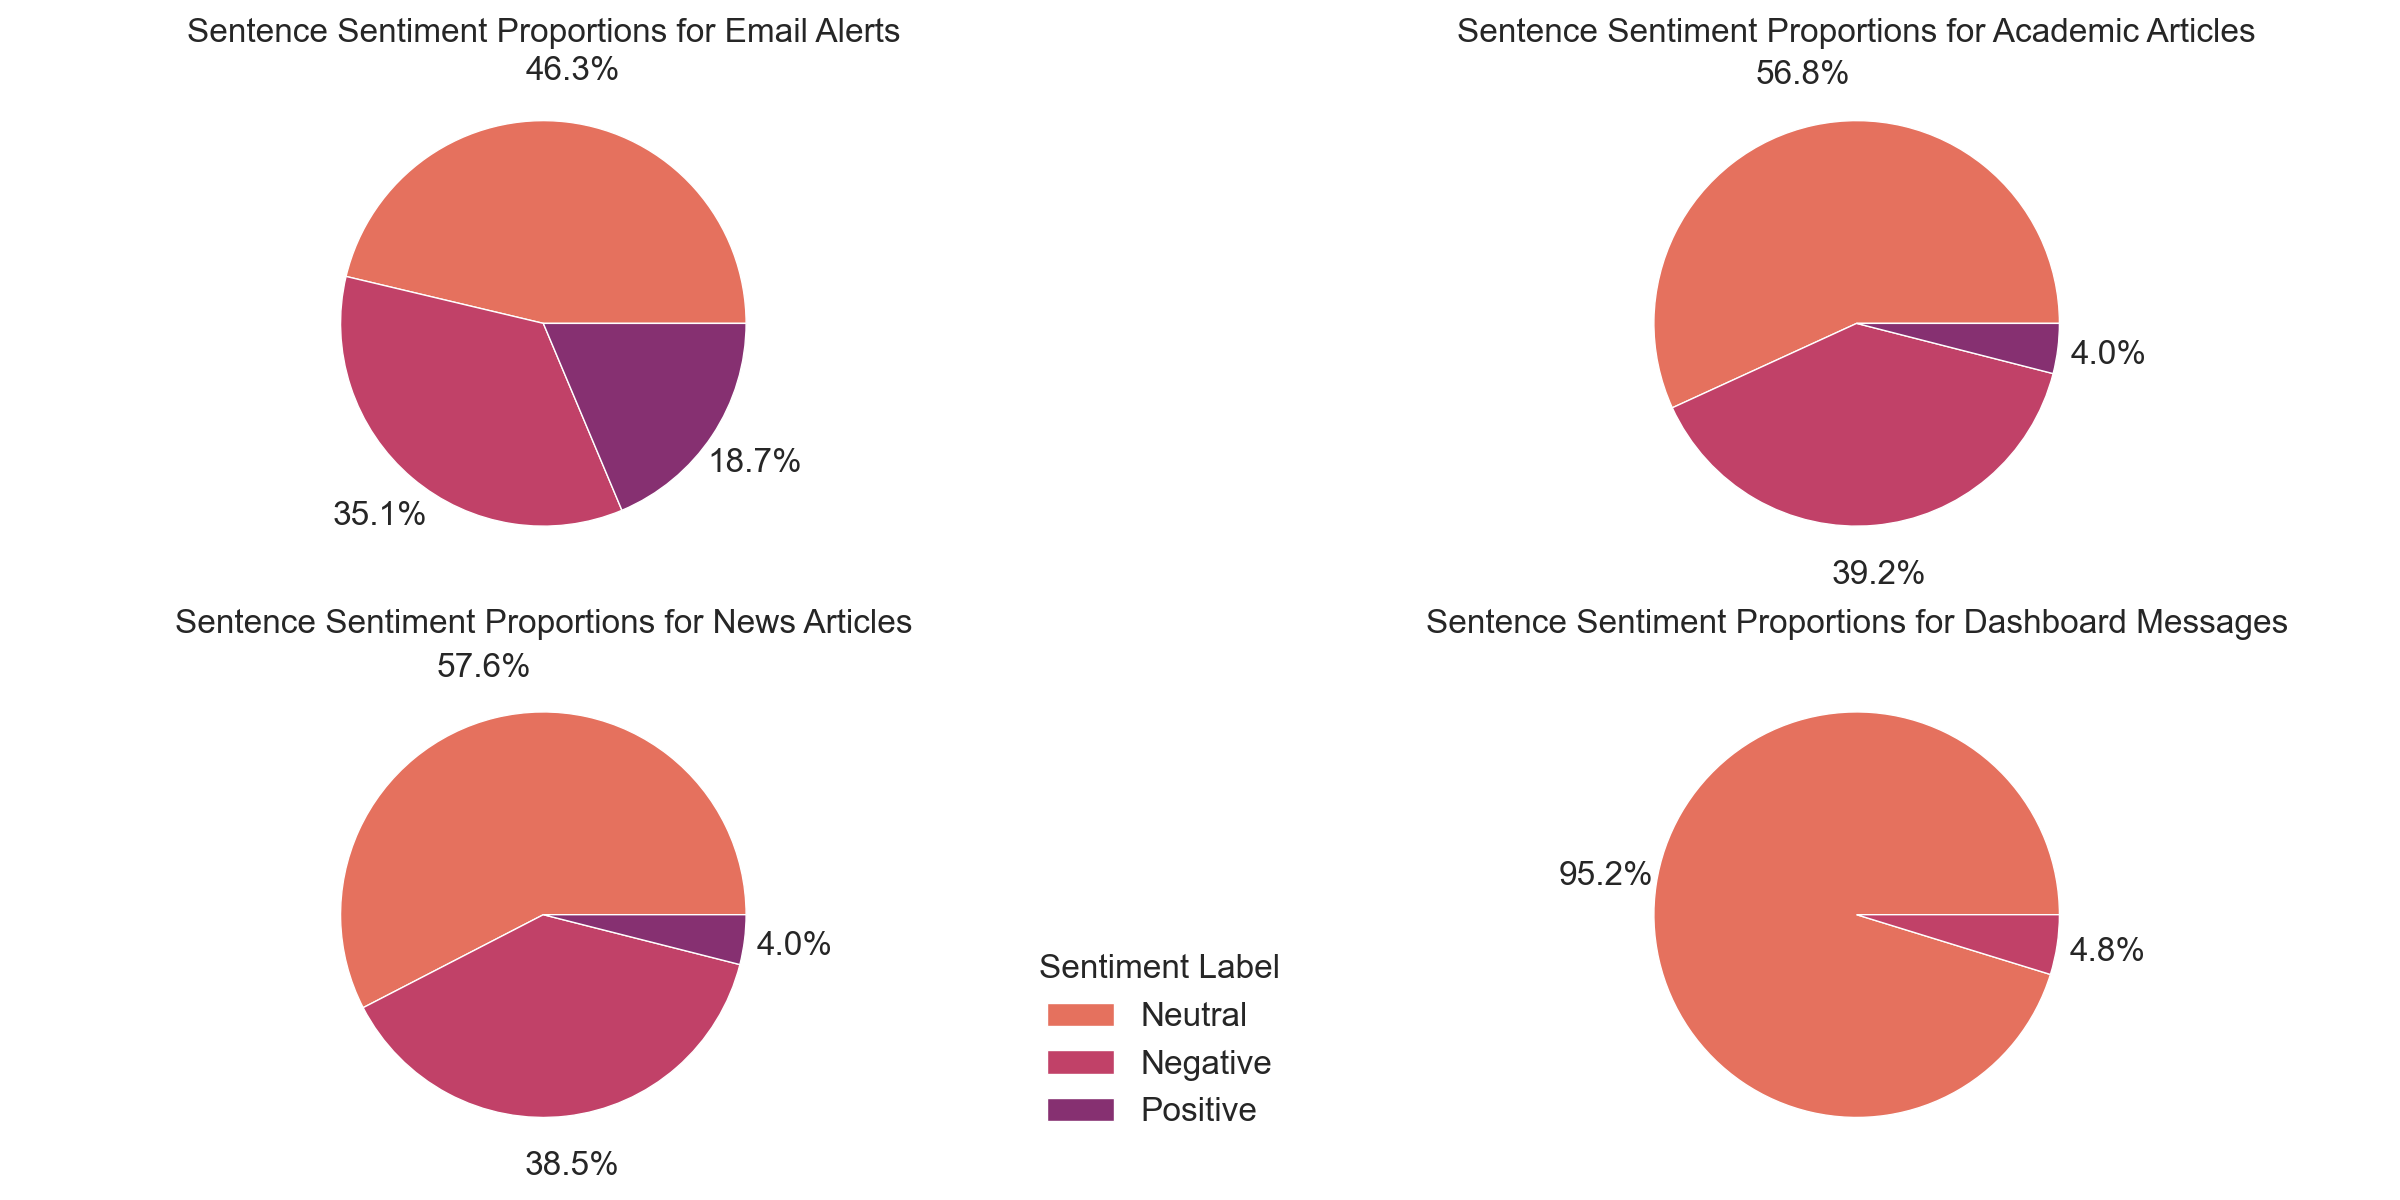
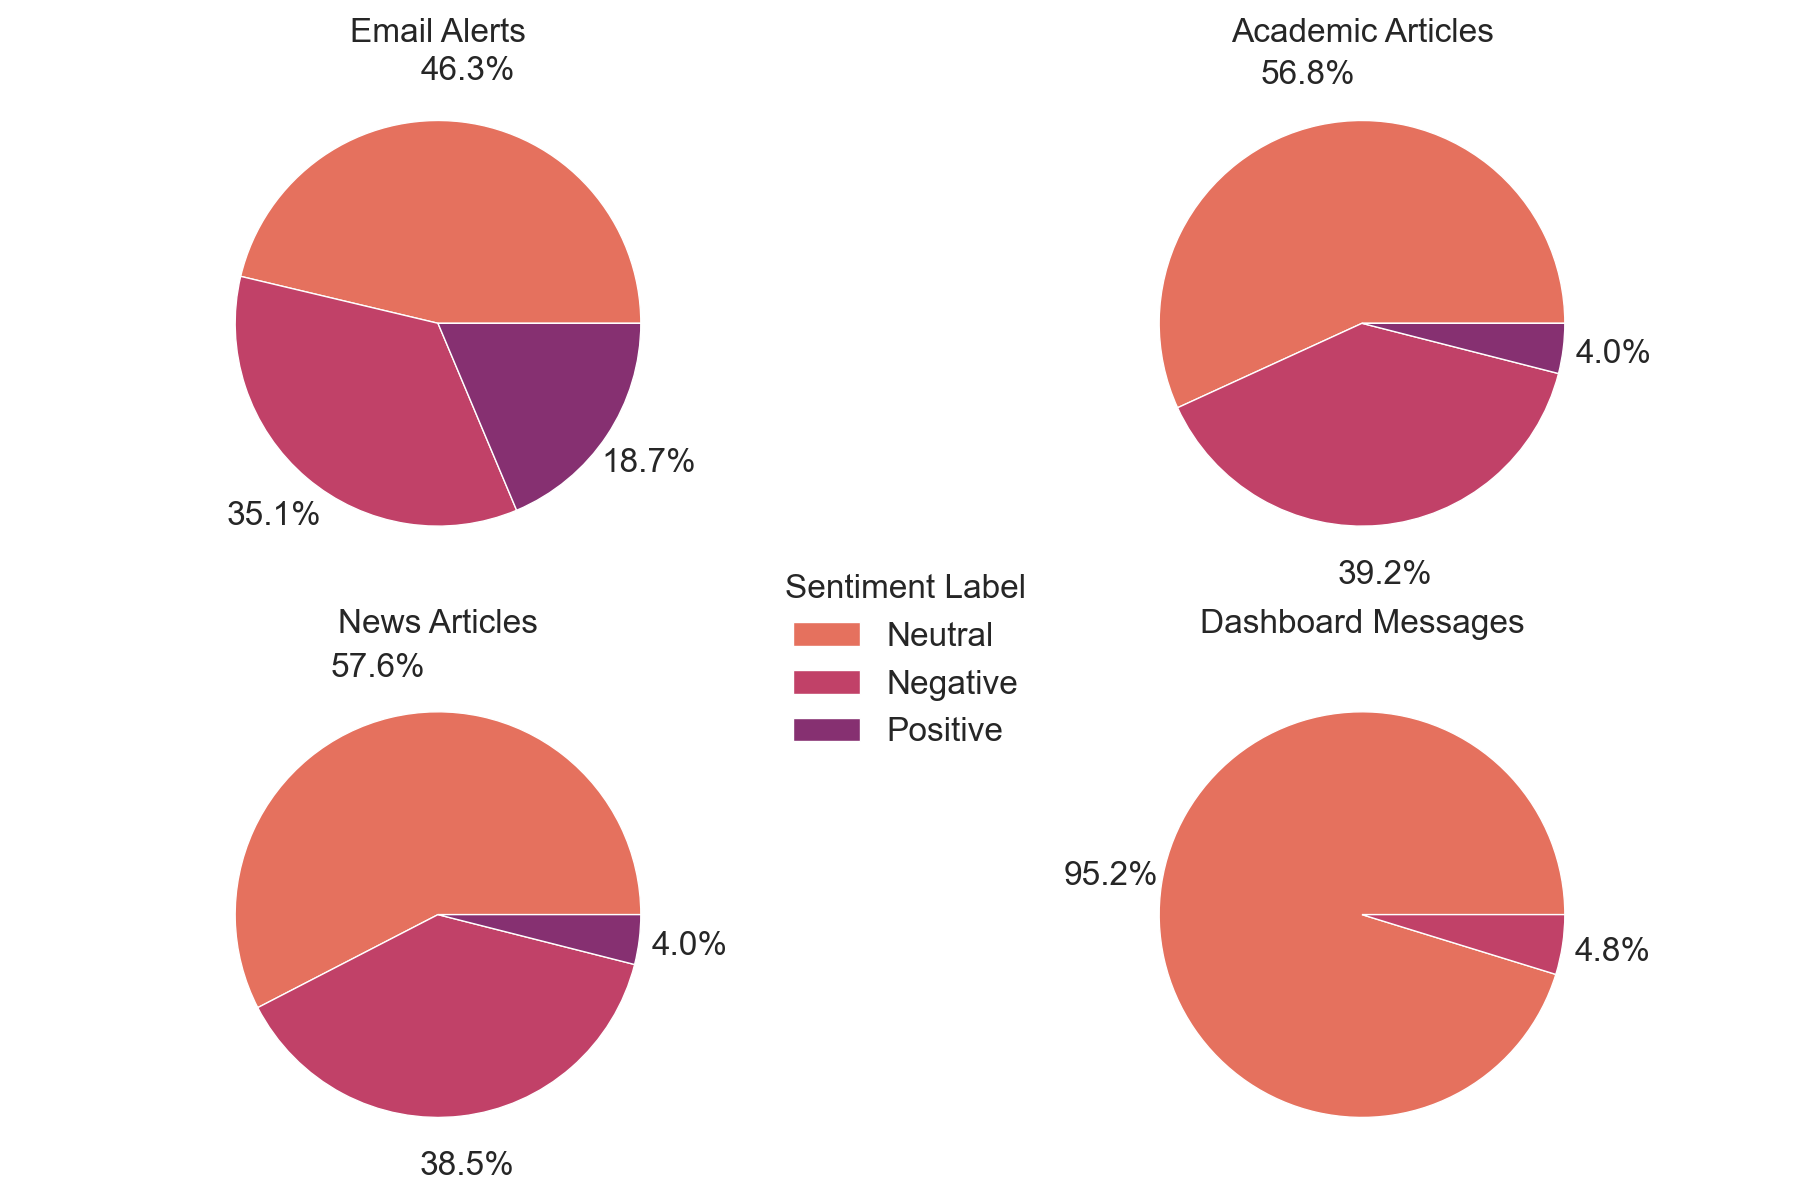
Update sentiment analysis pie charts

diff --git a/02_Code/04_SentimentAnalysis/02_SentimentAnalysis.py b/02_Code/04_SentimentAnalysis/02_SentimentAnalysis.py
@@ -14,7 +14,7 @@ def main():
         "Count"].transform("sum")
 
     sns.set_theme(style="whitegrid")
-    fig, axes = plt.subplots(2, 2, figsize=(24, 12), sharey=False)
+    fig, axes = plt.subplots(2, 2, figsize=(18, 12), sharey=False)
     axes = axes.flatten()
 
     palette = sns.color_palette("flare", n_colors=sentimentCounts["SentimentLabel"].nunique())
@@ -27,7 +27,7 @@ def main():
     for i, category in enumerate(graphOrder):
         subset = sentimentCounts[sentimentCounts["SourceTextType"] == category]
         wedges, texts, autotexts = axes[i].pie(data=subset, x="Proportion", colors=palette, autopct="%1.1f%%", pctdistance=1.25)
-        axes[i].set_title(f"Sentence Sentiment Proportions for {pieTitles[i]}", fontsize=24, pad=20)
+        axes[i].set_title(f"{pieTitles[i]}", fontsize=24, pad=20)
         axes[i].set_xlabel("", fontsize=24) # No need for x label, the graph is self-explanatory
 
         # Set percent font size
@@ -40,14 +40,14 @@ def main():
 
         fig.tight_layout()
         # Padding between columns so that titles don't overlap
-        fig.subplots_adjust(wspace=0.25)
+        fig.subplots_adjust(wspace=0.1)
 
     plt.legend(
         handles=legendWedges,
         labels=["Neutral", "Negative", "Positive"],
         loc = "center",
         ncol=1,
-        bbox_to_anchor=(-.875, .25),
+        bbox_to_anchor=(-.4, 1),
         frameon=False,
         borderaxespad=0.0,
         title="Sentiment Label",
